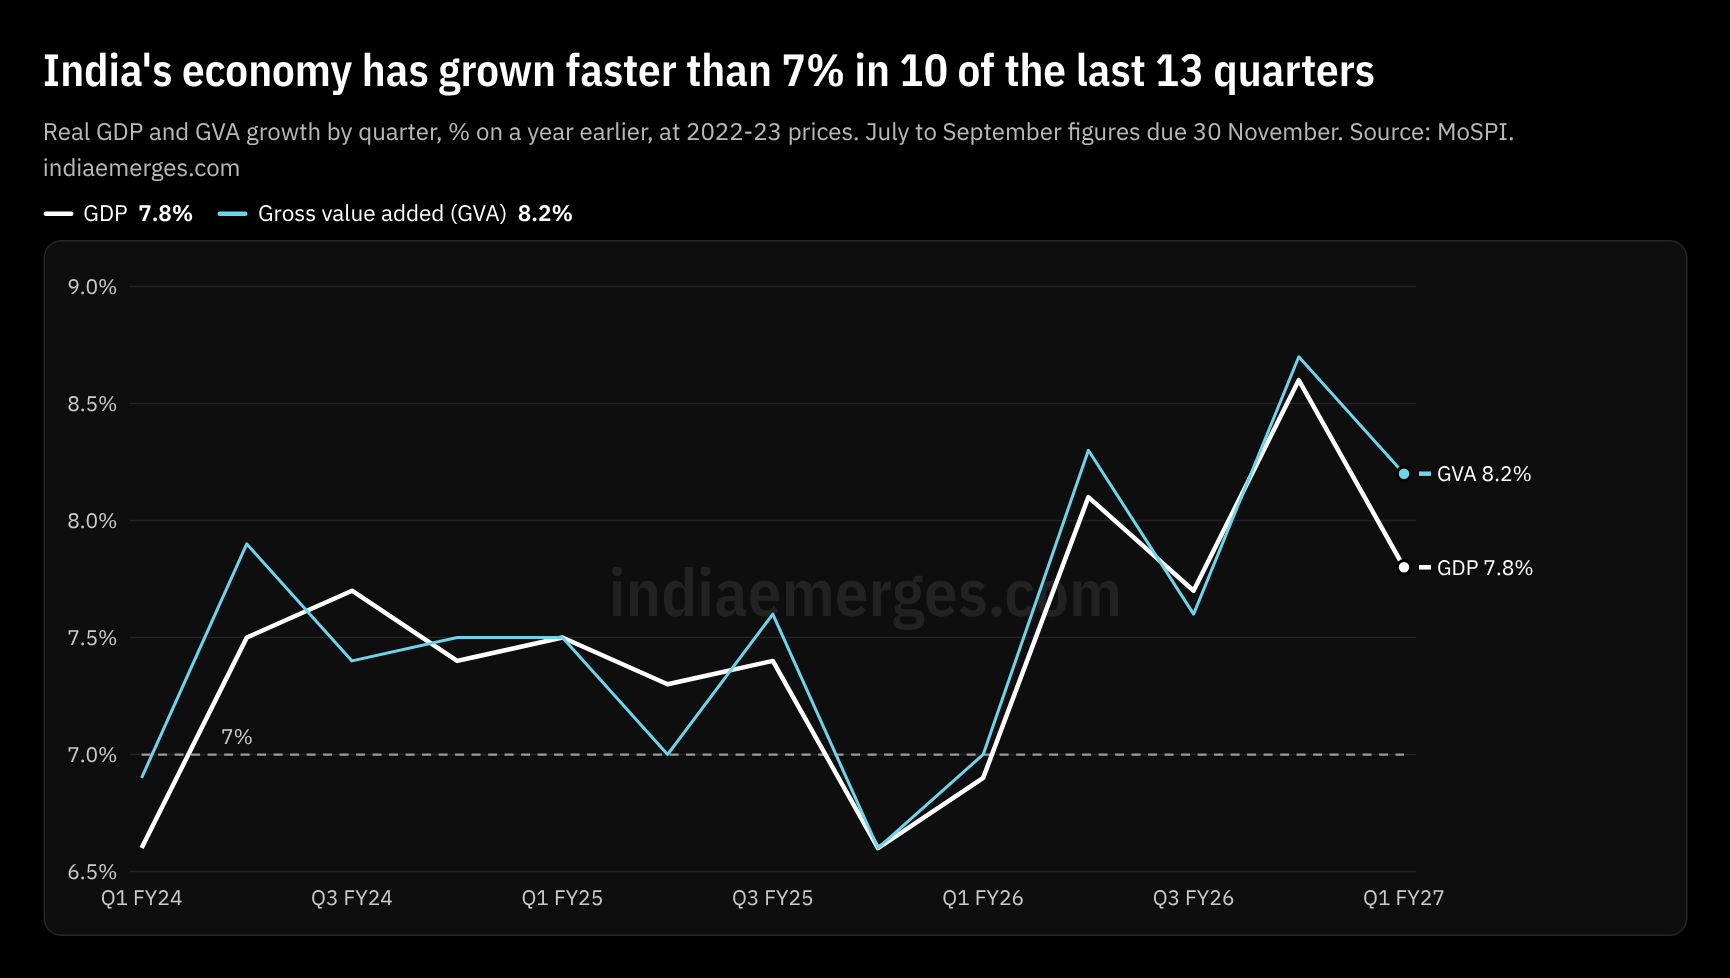
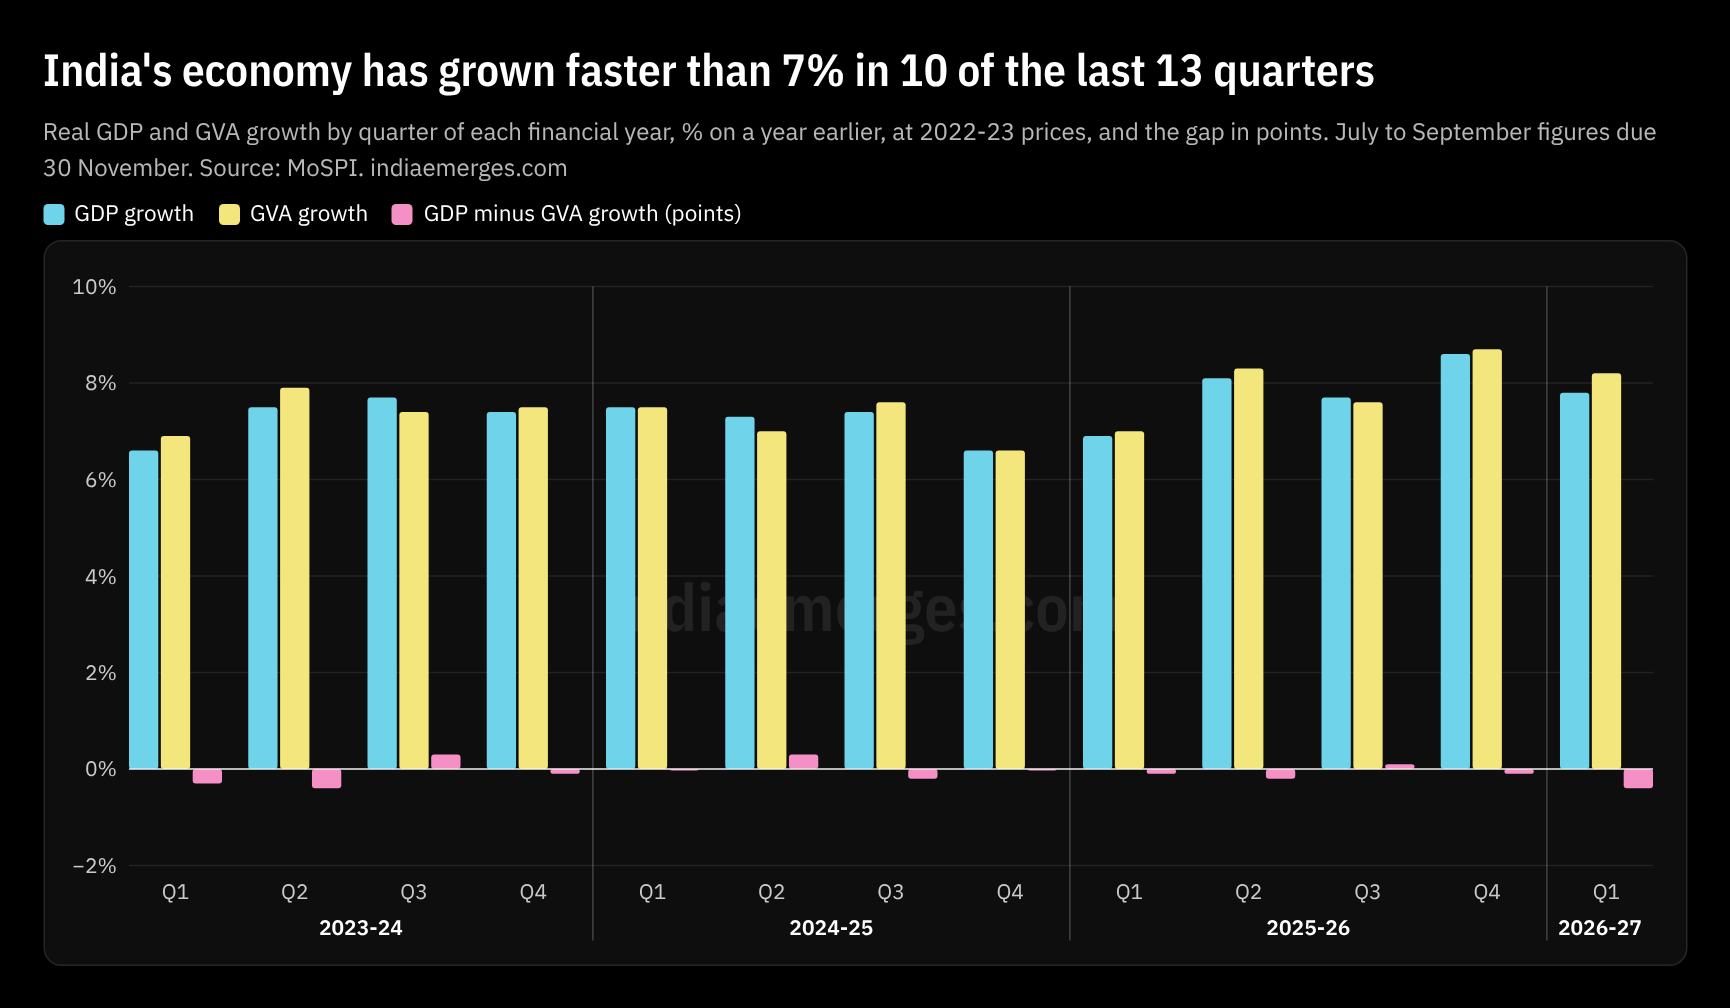
Chart of the day 27 Nov: grouped bars of GDP, GVA and the gap, by financial year
Adds a 'bars' chart-of-the-day type and a financial-year axis line (groups)
to IE.barChart.

Claude-Session: https://claude.ai/code/session_014BVoBL9geq5oY9Pd7XYswa

diff --git a/index.html b/index.html
@@ -150,11 +150,11 @@ footer a:hover{color:#fff}
     <!-- CHART:START -->
     <div class="sh"><h2 id="h-chart">Chart of the day</h2><a href="/charts/">All charts →</a></div>
     <figure class="cod">
-      <div class="cod-int" data-spec="{&quot;type&quot;: &quot;line&quot;, &quot;data&quot;: &quot;/charts/data/2026-11-27-gdp-gva-quarterly.csv&quot;, &quot;x&quot;: &quot;quarter&quot;, &quot;tick&quot;: &quot;label&quot;, &quot;tip&quot;: &quot;period&quot;, &quot;kind&quot;: &quot;pct&quot;, &quot;series&quot;: [[&quot;gdp_growth_pct&quot;, &quot;GDP&quot;, &quot;#FFFFFF&quot;, false, &quot;GDP&quot;], [&quot;gva_growth_pct&quot;, &quot;Gross value added (GVA)&quot;, &quot;#6FD3EA&quot;, false, &quot;GVA&quot;]], &quot;hlines&quot;: [{&quot;v&quot;: 7, &quot;label&quot;: &quot;7%&quot;, &quot;short&quot;: &quot;7%&quot;}], &quot;unit&quot;: &quot;% change on the same quarter a year earlier, at 2022-23 prices&quot;, &quot;zero&quot;: false, &quot;title&quot;: &quot;India&#x27;s economy has grown faster than 7% in 10 of the last 13 quarters&quot;}"><h3>India&#x27;s economy has grown faster than 7% in 10 of the last 13 quarters</h3><div class="ctls cod-ui"></div><div class="legend cod-legend"></div><div class="plot"><div class="cod-fallback"><a href="/charts/2026-11-27-gdp-gva-quarterly.png"><img src="/charts/2026-11-27-gdp-gva-quarterly.png" alt="Line chart of India&#x27;s quarterly real GDP and GVA growth from April to June 2023 to April to June 2026. GDP growth: 6.6, 7.5, 7.7, 7.4, 7.5, 7.3, 7.4, 6.6, 6.9, 8.1, 7.7, 8.6 and 7.8%. GVA growth: 6.9, 7.9, 7.4, 7.5, 7.5, 7.0, 7.6, 6.6, 7.0, 8.3, 7.6, 8.7 and 8.2%." loading="lazy"></a></div><div class="cod-plot"></div></div></div>
+      <div class="cod-int" data-spec="{&quot;type&quot;: &quot;bars&quot;, &quot;data&quot;: &quot;/charts/data/2026-11-27-gdp-gva-quarterly.csv&quot;, &quot;x&quot;: &quot;quarter&quot;, &quot;tip&quot;: &quot;period&quot;, &quot;group&quot;: &quot;financial_year&quot;, &quot;kind&quot;: &quot;pct&quot;, &quot;series&quot;: [[&quot;gdp_growth_pct&quot;, &quot;GDP growth&quot;, &quot;#6FD3EA&quot;], [&quot;gva_growth_pct&quot;, &quot;GVA growth&quot;, &quot;#F3E67C&quot;], [&quot;gdp_minus_gva_pp&quot;, &quot;GDP minus GVA growth (points)&quot;, &quot;#F590C6&quot;]], &quot;unit&quot;: &quot;Growth: % on the same quarter a year earlier, at 2022-23 prices. Gap: percentage points&quot;, &quot;title&quot;: &quot;India&#x27;s economy has grown faster than 7% in 10 of the last 13 quarters&quot;}"><h3>India&#x27;s economy has grown faster than 7% in 10 of the last 13 quarters</h3><div class="ctls cod-ui"></div><div class="legend cod-legend"></div><div class="plot"><div class="cod-fallback"><a href="/charts/2026-11-27-gdp-gva-quarterly.png"><img src="/charts/2026-11-27-gdp-gva-quarterly.png" alt="Bar chart of India&#x27;s quarterly real GDP and GVA growth from April to June 2023 to April to June 2026. GDP growth: 6.6, 7.5, 7.7, 7.4, 7.5, 7.3, 7.4, 6.6, 6.9, 8.1, 7.7, 8.6 and 7.8%. GVA growth: 6.9, 7.9, 7.4, 7.5, 7.5, 7.0, 7.6, 6.6, 7.0, 8.3, 7.6, 8.7 and 8.2%. GDP minus GVA growth, in percentage points: −0.3, −0.4, 0.3, −0.1, 0.0, 0.3, −0.2, 0.0, −0.1, −0.2, 0.1, −0.1 and −0.4." loading="lazy"></a></div><div class="cod-plot"></div></div></div>
       <figcaption>
         <time datetime="2026-11-27">27 November 2026</time>
-        <p class="cod-sub">Real GDP and GVA growth by quarter, % on the same quarter a year earlier, at 2022-23 prices. Figures for July to September 2026 are due on Monday 30 November.</p>
-        <p class="cod-cap">GDP grew 7.8% in April to June 2026, down from 8.6% in January to March, the fastest of the 13 quarters shown. Gross value added, which leaves out taxes and subsidies on products, grew 8.2%. Growth dipped below 7% only three times: 6.6% in April to June 2023, 6.6% in January to March 2025 and 6.9% in April to June 2025. Forecasts for July to September range from 7.0% to 7.8%; we will add Monday&#x27;s figure.</p>
+        <p class="cod-sub">Real GDP and GVA growth by quarter of each financial year (April to March), % on the same quarter a year earlier, at 2022-23 prices, and the gap between them in percentage points. Figures for July to September 2026 are due on Monday 30 November.</p>
+        <p class="cod-cap">GDP grew 7.8% in April to June 2026, down from 8.6% in January to March, the fastest of the 13 quarters shown. Gross value added, which leaves out taxes and subsidies on products, grew 8.2%, so GDP growth was 0.4 points lower, the joint widest gap shown. The gap is small, between −0.4 and +0.3 points, in every quarter. GDP growth dipped below 7% only three times: 6.6% in April to June 2023, 6.6% in January to March 2025 and 6.9% in April to June 2025. Forecasts for July to September range from 7.0% to 7.8%; we will add Monday&#x27;s figure.</p>
         <p class="cod-src">Source: MoSPI, National Accounts Statistics, quarterly estimates at constant 2022-23 prices (latest release, 31 August 2026)</p>
       </figcaption>
     </figure>

diff --git a/charts/index.html b/charts/index.html
@@ -33,9 +33,9 @@
     <figure class="arc" id="2026-11-27">
       <time datetime="2026-11-27">27 November 2026</time>
       
-      <div class="cod-int" data-spec="{&quot;type&quot;: &quot;line&quot;, &quot;data&quot;: &quot;/charts/data/2026-11-27-gdp-gva-quarterly.csv&quot;, &quot;x&quot;: &quot;quarter&quot;, &quot;tick&quot;: &quot;label&quot;, &quot;tip&quot;: &quot;period&quot;, &quot;kind&quot;: &quot;pct&quot;, &quot;series&quot;: [[&quot;gdp_growth_pct&quot;, &quot;GDP&quot;, &quot;#FFFFFF&quot;, false, &quot;GDP&quot;], [&quot;gva_growth_pct&quot;, &quot;Gross value added (GVA)&quot;, &quot;#6FD3EA&quot;, false, &quot;GVA&quot;]], &quot;hlines&quot;: [{&quot;v&quot;: 7, &quot;label&quot;: &quot;7%&quot;, &quot;short&quot;: &quot;7%&quot;}], &quot;unit&quot;: &quot;% change on the same quarter a year earlier, at 2022-23 prices&quot;, &quot;zero&quot;: false, &quot;title&quot;: &quot;India&#x27;s economy has grown faster than 7% in 10 of the last 13 quarters&quot;}"><h3>India&#x27;s economy has grown faster than 7% in 10 of the last 13 quarters</h3><div class="ctls cod-ui"></div><div class="legend cod-legend"></div><div class="plot"><div class="cod-fallback"><a href="/charts/2026-11-27-gdp-gva-quarterly.png"><img src="/charts/2026-11-27-gdp-gva-quarterly.png" alt="Line chart of India&#x27;s quarterly real GDP and GVA growth from April to June 2023 to April to June 2026. GDP growth: 6.6, 7.5, 7.7, 7.4, 7.5, 7.3, 7.4, 6.6, 6.9, 8.1, 7.7, 8.6 and 7.8%. GVA growth: 6.9, 7.9, 7.4, 7.5, 7.5, 7.0, 7.6, 6.6, 7.0, 8.3, 7.6, 8.7 and 8.2%." loading="lazy"></a></div><div class="cod-plot"></div></div></div>
-      <p class="sub2">Real GDP and GVA growth by quarter, % on the same quarter a year earlier, at 2022-23 prices. Figures for July to September 2026 are due on Monday 30 November.</p>
-      <p>GDP grew 7.8% in April to June 2026, down from 8.6% in January to March, the fastest of the 13 quarters shown. Gross value added, which leaves out taxes and subsidies on products, grew 8.2%. Growth dipped below 7% only three times: 6.6% in April to June 2023, 6.6% in January to March 2025 and 6.9% in April to June 2025. Forecasts for July to September range from 7.0% to 7.8%; we will add Monday&#x27;s figure.</p>
+      <div class="cod-int" data-spec="{&quot;type&quot;: &quot;bars&quot;, &quot;data&quot;: &quot;/charts/data/2026-11-27-gdp-gva-quarterly.csv&quot;, &quot;x&quot;: &quot;quarter&quot;, &quot;tip&quot;: &quot;period&quot;, &quot;group&quot;: &quot;financial_year&quot;, &quot;kind&quot;: &quot;pct&quot;, &quot;series&quot;: [[&quot;gdp_growth_pct&quot;, &quot;GDP growth&quot;, &quot;#6FD3EA&quot;], [&quot;gva_growth_pct&quot;, &quot;GVA growth&quot;, &quot;#F3E67C&quot;], [&quot;gdp_minus_gva_pp&quot;, &quot;GDP minus GVA growth (points)&quot;, &quot;#F590C6&quot;]], &quot;unit&quot;: &quot;Growth: % on the same quarter a year earlier, at 2022-23 prices. Gap: percentage points&quot;, &quot;title&quot;: &quot;India&#x27;s economy has grown faster than 7% in 10 of the last 13 quarters&quot;}"><h3>India&#x27;s economy has grown faster than 7% in 10 of the last 13 quarters</h3><div class="ctls cod-ui"></div><div class="legend cod-legend"></div><div class="plot"><div class="cod-fallback"><a href="/charts/2026-11-27-gdp-gva-quarterly.png"><img src="/charts/2026-11-27-gdp-gva-quarterly.png" alt="Bar chart of India&#x27;s quarterly real GDP and GVA growth from April to June 2023 to April to June 2026. GDP growth: 6.6, 7.5, 7.7, 7.4, 7.5, 7.3, 7.4, 6.6, 6.9, 8.1, 7.7, 8.6 and 7.8%. GVA growth: 6.9, 7.9, 7.4, 7.5, 7.5, 7.0, 7.6, 6.6, 7.0, 8.3, 7.6, 8.7 and 8.2%. GDP minus GVA growth, in percentage points: −0.3, −0.4, 0.3, −0.1, 0.0, 0.3, −0.2, 0.0, −0.1, −0.2, 0.1, −0.1 and −0.4." loading="lazy"></a></div><div class="cod-plot"></div></div></div>
+      <p class="sub2">Real GDP and GVA growth by quarter of each financial year (April to March), % on the same quarter a year earlier, at 2022-23 prices, and the gap between them in percentage points. Figures for July to September 2026 are due on Monday 30 November.</p>
+      <p>GDP grew 7.8% in April to June 2026, down from 8.6% in January to March, the fastest of the 13 quarters shown. Gross value added, which leaves out taxes and subsidies on products, grew 8.2%, so GDP growth was 0.4 points lower, the joint widest gap shown. The gap is small, between −0.4 and +0.3 points, in every quarter. GDP growth dipped below 7% only three times: 6.6% in April to June 2023, 6.6% in January to March 2025 and 6.9% in April to June 2025. Forecasts for July to September range from 7.0% to 7.8%; we will add Monday&#x27;s figure.</p>
       <p class="src">Source: MoSPI, National Accounts Statistics, quarterly estimates at constant 2022-23 prices (latest release, 31 August 2026)</p>
     </figure>
     <figure class="arc" id="2026-11-26">

diff --git a/assets/ie.js b/assets/ie.js
@@ -195,7 +195,7 @@ IE.barChart=function(el,o){
   const bars=(o.series||[]).map(clean).filter(s=>s.pts.length),lines=(o.lines||[]).map(clean).filter(s=>s.pts.length);
   el.textContent='';if(!bars.length&&!lines.length)return empty(el,o.empty);
   const all=bars.concat(lines).flatMap(s=>s.pts),a=d3.min(all,p=>p[0]),b=d3.max(all,p=>p[0]);
-  const W=el.clientWidth||600,Ht=o.height||(W>640?400:320),m={t:bandTop(o),r:10,b:34,l:50};
+  const W=el.clientWidth||600,Ht=o.height||(W>640?400:320),m={t:bandTop(o),r:10,b:o.groups?58:34,l:50};
   const y=d3.scaleLinear().domain([Math.min(0,d3.min(all,p=>p[1])),Math.max(0,d3.max(all,p=>p[1]))]).nice(6).range([Ht-m.b,m.t]);
   const ticks=y.ticks(6),tf=IE.tickFmt(o.kind,Math.max(Math.abs(y.domain()[0]),Math.abs(y.domain()[1])),ticks.length>1?ticks[1]-ticks[0]:null);m.l=Math.max(44,d3.max(ticks,t=>tf(t).length)*8.6+10);
   const x=d3.scaleBand().domain(d3.range(a,b+1)).range([m.l,W-m.r]).paddingInner(bars.length>1?.22:.18),xc=i=>x(i)+x.bandwidth()/2;
@@ -212,6 +212,11 @@ IE.barChart=function(el,o){
     if(s.pts.length<=40)s.pts.forEach(p=>svg.append('circle').attr('cx',xc(p[0])).attr('cy',y(p[1])).attr('r',3.5).attr('fill',s.color).attr('stroke','#000').attr('stroke-width',1.5));});
   const xa=svg.append('g').attr('class','axis');IE.xTicks(L,a,b,W-m.l-m.r,o.align,o.minStep,o.steps).forEach(i=>xa.append('text').attr('x',xc(i)).attr('y',Ht-m.b+22).attr('text-anchor','middle').text(o.tickLabel?o.tickLabel(i):L[i]));
   edgeFix(xa,W);
+  /* o.groups: one label per bar (e.g. the financial year of each quarter); runs of the same label get a second axis line and faint dividers */
+  if(o.groups){const runs=[];d3.range(a,b+1).forEach(i=>{const g=o.groups[i];if(runs.length&&runs[runs.length-1].g===g)runs[runs.length-1].to=i;else runs.push({g,from:i,to:i});});
+    runs.forEach((r,k)=>{const x0=x(r.from)-x.step()*x.paddingInner()/2,x1=x(r.to)+x.bandwidth()+x.step()*x.paddingInner()/2,cx=(Math.max(m.l,x0)+Math.min(W-m.r,x1))/2;
+      if(k)svg.append('line').attr('x1',x0).attr('x2',x0).attr('y1',m.t).attr('y2',Ht-8).attr('stroke','#fff').attr('stroke-opacity',.22);
+      const lab=W>640?r.g:/^\d{4}-\d{2}$/.test(r.g)?r.g.slice(2):r.g;/* phones: 2023-24 becomes 23-24 so a single-quarter year still fits */xa.append('text').attr('x',cx).attr('y',Ht-m.b+46).attr('text-anchor','middle').attr('font-weight',600).style('fill','#fff').text(lab);});}
   const hl=svg.insert('rect',':first-child').attr('y',m.t).attr('height',Ht-m.t-m.b).attr('width',x.step()).attr('fill','#fff').attr('opacity',.1).style('display','none');
   const ov=svg.append('rect').attr('x',m.l).attr('y',m.t).attr('width',Math.max(0,W-m.l-m.r)).attr('height',Ht-m.t-m.b).attr('fill','transparent');
   function move(ev){const pt=d3.pointer(ev.touches?ev.touches[0]:ev,svg.node());const i=Math.max(a,Math.min(b,a+Math.floor((pt[0]-m.l)/x.step())));hl.style('display',null).attr('x',x(i)-x.step()*x.paddingInner()/2);

diff --git a/assets/cod.js b/assets/cod.js
@@ -16,6 +16,7 @@ async function build(box){
   if(spec.type==='dumbbell')return dumb(box,spec,rows);
   if(spec.type==='map')return map(box,spec,rows);
   if(spec.type==='dots')return dots(box,spec,rows);
+  if(spec.type==='bars')return bars(box,spec,rows);
   const L=rows.map(r=>r[spec.x]),col=c=>rows.map(r=>r[c]===''||r[c]==null?null:+r[c]);
   const st={m:0,view:'total',a:0,b:L.length-1};
   const ui=box.querySelector('.cod-ui'),plot=box.querySelector('.cod-plot'),lg=box.querySelector('.cod-legend');
@@ -88,6 +89,17 @@ function dumb(box,spec,rows){
   const A={name:spec.a[1],color:spec.a[2]},B={name:spec.b[1],color:spec.b[2]};
   lg.innerHTML='<span><i class="sw" style="background:none;border:3px solid '+A.color+';border-radius:50%"></i>'+IE.esc(A.name)+'</span><span><i class="sw" style="background:'+B.color+';border-radius:50%"></i>'+IE.esc(B.name)+'</span>';
   function draw(){IE.dumbbell(plot,{rows:R,A,B,fmt,gapName:spec.gapName,unit:spec.unit,max:spec.max,label:spec.title||'Chart'});}
+  draw();box.classList.add('ready');
+  let t,lw=window.innerWidth;window.addEventListener('resize',()=>{if(window.innerWidth===lw)return;lw=window.innerWidth;clearTimeout(t);t=setTimeout(draw,180);});
+}
+/* Grouped bars: spec {type:'bars', data, x (bar label column), tip (tooltip title column), group (second axis line column, e.g. financial year),
+   series:[[column,name,color]], kind, unit} */
+function bars(box,spec,rows){
+  const plot=box.querySelector('.cod-plot'),lg=box.querySelector('.cod-legend'),num=v=>v===''||v==null?null:+v;
+  const S=spec.series.map(s=>({name:s[1],color:s[2],pts:rows.map((r,i)=>[i,num(r[s[0]])])}));
+  lg.innerHTML=S.map(s=>'<span>'+IE.sw(s.color)+IE.esc(s.name)+'</span>').join('');
+  const L=rows.map(r=>r[spec.x]),TP=spec.tip?rows.map(r=>r[spec.tip]):L,G=spec.group?rows.map(r=>r[spec.group]):null;
+  function draw(){IE.barChart(plot,{labels:L,series:S,kind:spec.kind||'pct',unit:spec.unit,groups:G,tipTitle:i=>TP[i],label:spec.title||'Chart',height:window.innerWidth<640?360:460});}
   draw();box.classList.add('ready');
   let t,lw=window.innerWidth;window.addEventListener('resize',()=>{if(window.innerWidth===lw)return;lw=window.innerWidth;clearTimeout(t);t=setTimeout(draw,180);});
 }

diff --git a/assets/README.md b/assets/README.md
@@ -79,3 +79,5 @@ The tooltip (`IE.tip`) hides by itself on phones when the reader scrolls, taps e
 ## Colours
 
 `IE.PAL` holds the category colours in a fixed order: cyan, yellow, pink, violet, green, white, orange, grey. Give each category the same colour every time it appears, and use white for totals and all-India lines.
+
+Chart of the day type `bars`: grouped bars from a CSV (`series: [[column, name, color]]`), with `group` naming a column whose runs (e.g. financial years) get a second axis line and dividers. `IE.barChart` takes the same as `groups` (one label per bar).
